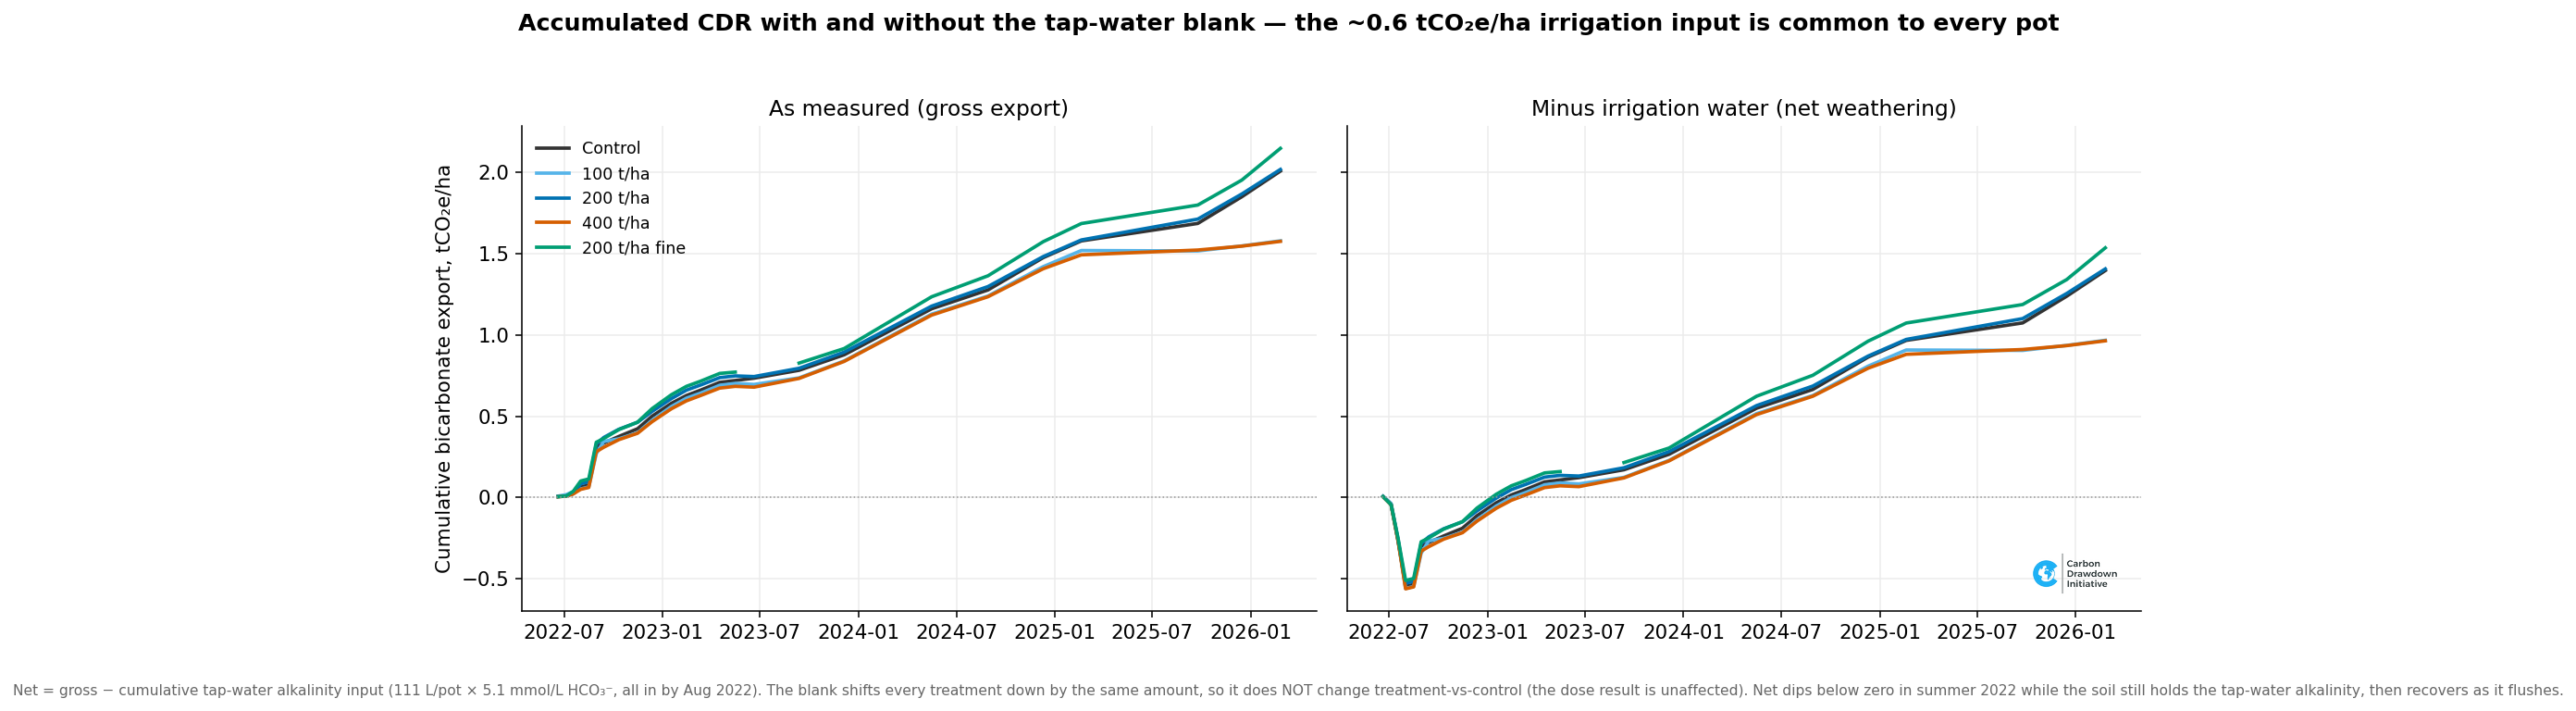
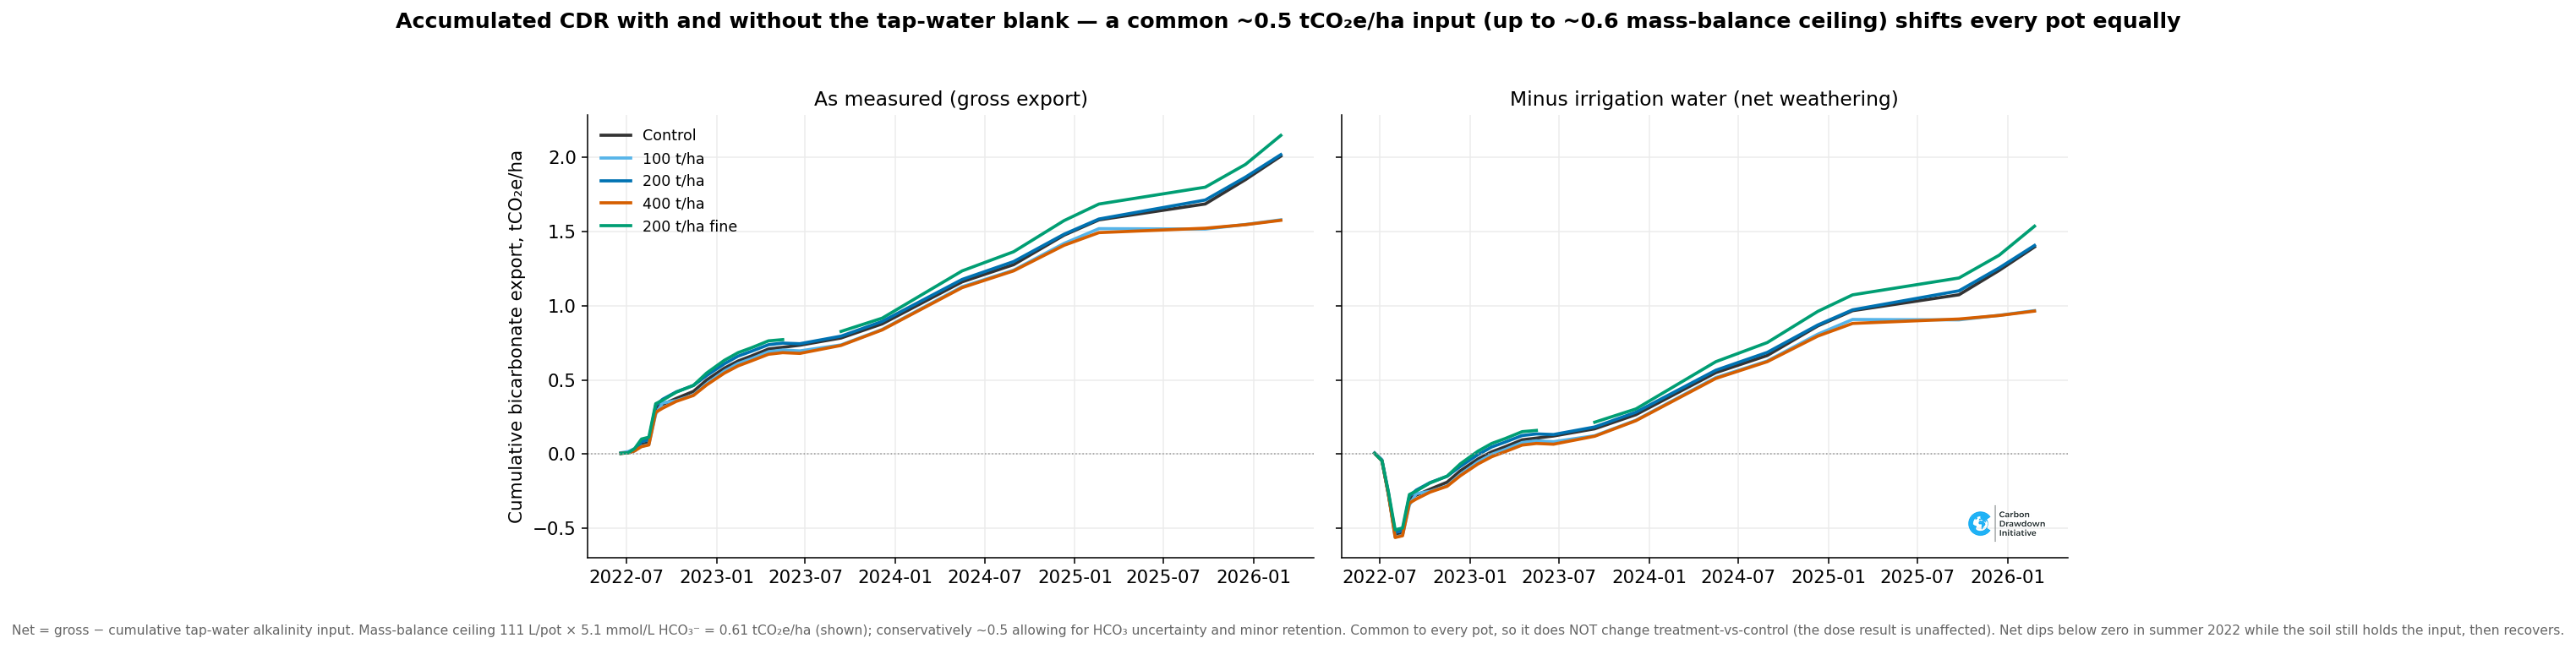
Use a conservative tap-water blank (~0.5 tCO2e/ha; up to ~0.6 ceiling)
Recompute wording: irrigation blank stated conservatively as ~0.5 tCO2e/ha
(roughly a third of gross), with 0.6 as the transparent mass-balance ceiling.
Confirmed 111 L/pot is the complete 2022 irrigation.

diff --git a/code/xxl_lysimeter_water_share.py b/code/xxl_lysimeter_water_share.py
@@ -124,13 +124,14 @@ def main():
     b0.fill_between(cum_input.index, 0, -cum_input.values * 0 + cum_input.values,
                     color="#D55E00", alpha=0.0)  # placeholder (keep axes clean)
     b0.legend(frameon=False, fontsize=9, loc="upper left")
-    fig.suptitle("Accumulated CDR with and without the tap-water blank — the ~0.6 tCO₂e/ha "
-                 "irrigation input is common to every pot", fontsize=13, weight="bold")
-    fig.text(0.5, 0.005, "Net = gross − cumulative tap-water alkalinity input "
-             "(111 L/pot × 5.1 mmol/L HCO₃⁻, all in by Aug 2022). The blank shifts every "
-             "treatment down by the same amount, so it does NOT change treatment-vs-control "
-             "(the dose result is unaffected). Net dips below zero in summer 2022 while the "
-             "soil still holds the tap-water alkalinity, then recovers as it flushes.",
+    fig.suptitle("Accumulated CDR with and without the tap-water blank — a common ~0.5 tCO₂e/ha "
+                 "input (up to ~0.6 mass-balance ceiling) shifts every pot equally",
+                 fontsize=13, weight="bold")
+    fig.text(0.5, 0.005, "Net = gross − cumulative tap-water alkalinity input. Mass-balance "
+             "ceiling 111 L/pot × 5.1 mmol/L HCO₃⁻ = 0.61 tCO₂e/ha (shown); conservatively "
+             "~0.5 allowing for HCO₃ uncertainty and minor retention. Common to every pot, so "
+             "it does NOT change treatment-vs-control (the dose result is unaffected). Net dips "
+             "below zero in summer 2022 while the soil still holds the input, then recovers.",
              ha="center", fontsize=8, color="#666")
     fig.tight_layout(rect=(0, 0.05, 1, 0.95))
     brand.add_logo(fig, ax=b1, loc="lower right", frac=0.13)

diff --git a/README.md b/README.md
@@ -136,10 +136,10 @@ Full units, molar masses and provenance are in **`data/xxl_lysimeter_metadata.js
 - **Gross export — not input-corrected.** Export = leachate concentration × drainage volume.
   It is *not* netted against the alkalinity carried in by the irrigation water. In the first
   summer (2022) each pot received ~111 L of hard municipal tap water (Infra Fürth, 16.7 °dGH,
-  ≈ 5.1 mmol/L bicarbonate by ion balance) vs ~160 L rain. That input ≈ **0.6 tCO₂e/ha**,
-  about **40 %** of the ~1.6 tCO₂e/ha gross cumulative — so the absolute CDR figures are an
-  **upper bound** (irrigation-corrected ≈ 0.9–1.1 tCO₂e/ha, less again after downstream
-  losses). This is common-mode across all pots, so it does **not** affect the
+  ≈ 5.1 mmol/L bicarbonate by ion balance) vs ~160 L rain. That input is of order **0.5 tCO₂e/ha**
+  (up to ~0.6 as a strict mass-balance ceiling), roughly a **third** of the ~1.6 tCO₂e/ha
+  gross cumulative — so the absolute CDR figures are an **upper bound** (irrigation-corrected
+  ≈ 1.0–1.1 tCO₂e/ha, less again after downstream losses). This is common-mode across all pots, so it does **not** affect the
   treatment-vs-control comparison (irrigation-corrected treatment−control ≈ −0.06…+0.11).
 - **Early phase (first ~90 days) is unrepresentative** — an initial flush (Birch effect:
   rewetting of the freshly built, disturbed soil after the first big drainage, Aug 2022), not
@@ -170,7 +170,7 @@ out-of-sample check — see `data/xxl_lysimeter_volume_strategy_plausibility.csv
   → `figures/slide1_TA_export_headline.png`, `alt_FUERTH2022_alkalinity_cumflux.png`,
   `alt_FUERTH2022_significance_vs_control.png`, `slide2_mixedmodel_forest.png`.
 - **The irrigation-water blank.** In 2022 the pots were watered with ~111 L/pot of hard tap
-  water (≈ 5.1 mmol/L HCO₃⁻) ≈ 0.6 tCO₂e/ha ≈ 40 % of the gross cumulative — common to every
+  water (≈ 5.1 mmol/L HCO₃⁻) of order 0.5 tCO₂e/ha (up to ~0.6 ceiling), ~a third of gross — common to every
   pot, so it does not change the dose comparison but lowers the absolute CDR (see §5).
   → `figures/water_irrigation_share_2022.png`, `figures/TA_cumulative_gross_vs_net_tapwater.png`.
 - **A buried EC sensor tracks leachate chemistry.** The 60 cm soil-EC probe correlates

diff --git a/CHANGELOG.md b/CHANGELOG.md
@@ -24,8 +24,9 @@ Public releases of the Fürth-2022 dataset. Newest first.
   validated against the original project notebook (median relative error ≈ 0).
 - **Absolute CDR is gross export, not input-corrected:** it does not subtract the alkalinity
   brought in by irrigation. In 2022 each pot got ~111 L hard tap water (Infra Fürth, 16.7 °dGH,
-  ≈ 5.1 mmol/L HCO₃⁻) ≈ 0.6 tCO₂e/ha ≈ 40 % of gross, so absolute CDR is an upper bound
-  (irrigation-corrected ≈ 0.9–1.1 tCO₂e/ha). Common-mode across pots → treatment-vs-control
+  ≈ 5.1 mmol/L HCO₃⁻) of order 0.5 tCO₂e/ha (up to ~0.6 mass-balance ceiling) ≈ a third of
+  gross, so absolute CDR is an upper bound (irrigation-corrected ≈ 1.0–1.1 tCO₂e/ha).
+  Common-mode across pots → treatment-vs-control
   comparisons unaffected. First ~90 days = initial flush / Birch effect. See README §5.
 - Figures branded with the Carbon Drawdown Initiative logo. Includes two irrigation-blank
   figures (`water_irrigation_share_2022.png`, `TA_cumulative_gross_vs_net_tapwater.png`) and